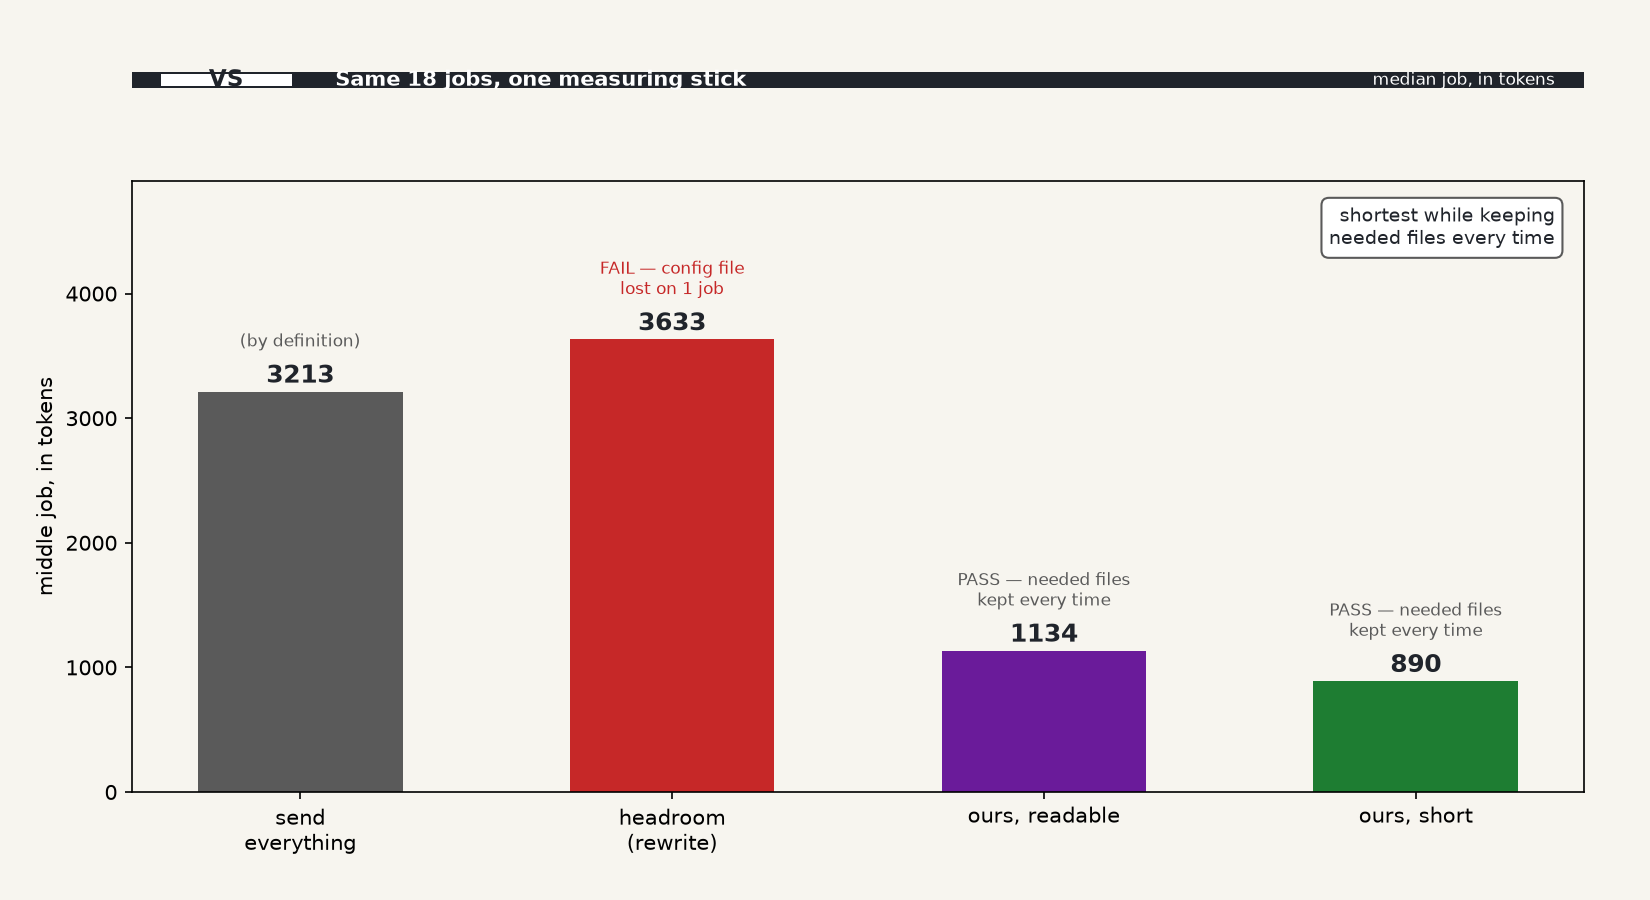
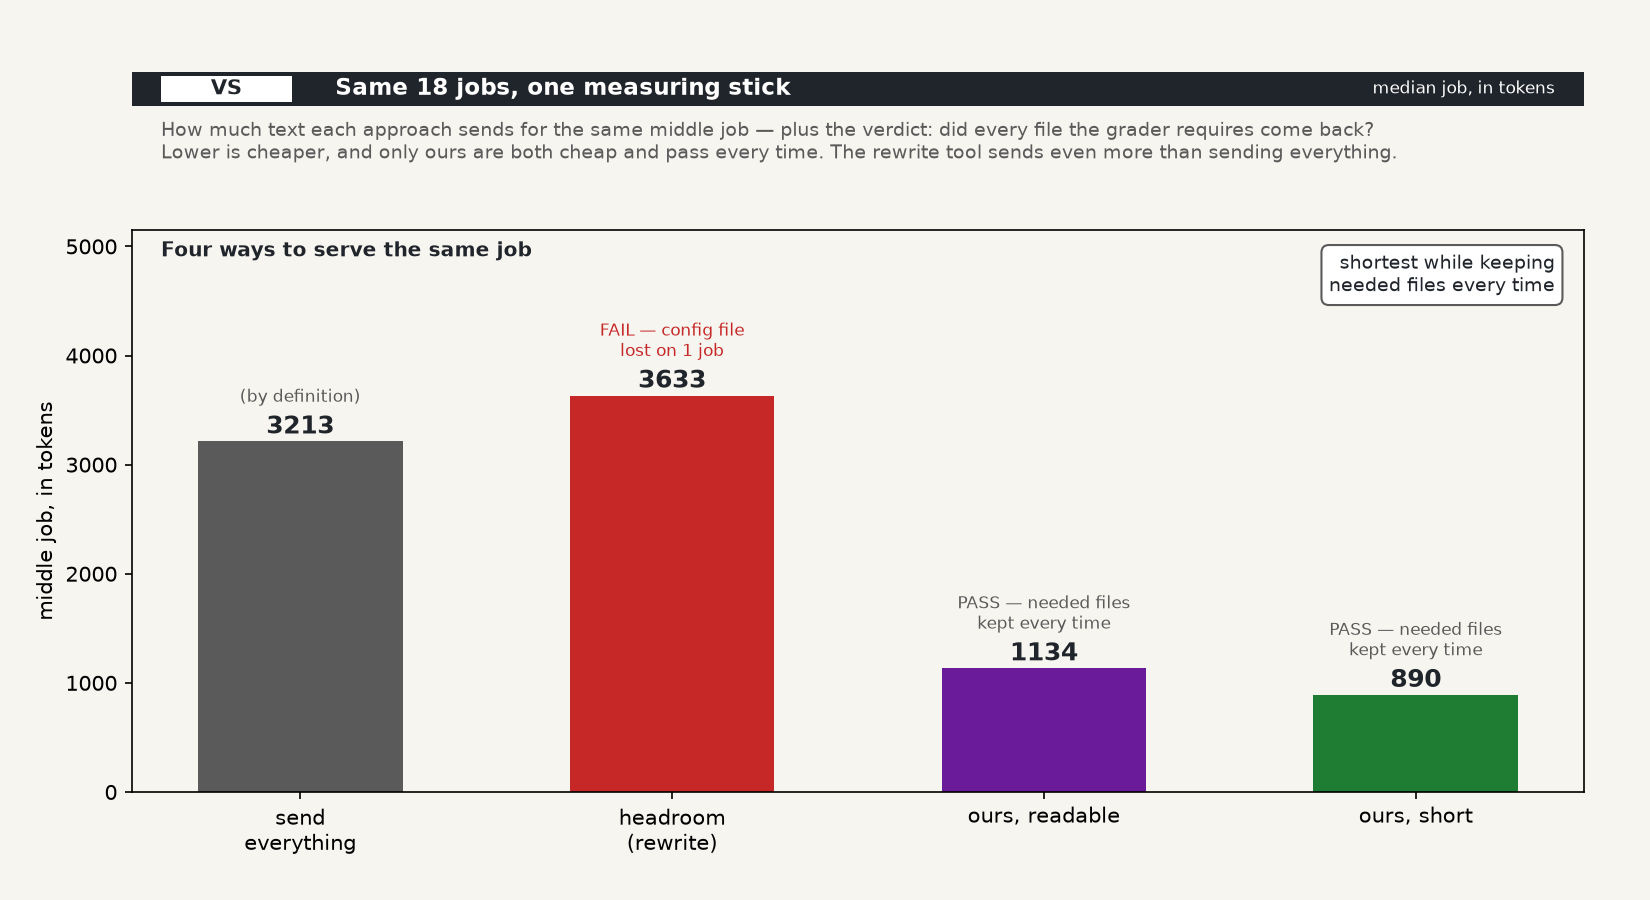
charts: title fully inside its band, two-line brief under it, in-panel titles — no text overlaps

diff --git a/scripts/plot_token_savings.py b/scripts/plot_token_savings.py
@@ -46,7 +46,9 @@ def main():
         groups.append((key, ts))
 
     fig = plt.figure(figsize=(13, 6.6), facecolor=PAPER)
-    gs = fig.add_gridspec(2, 2, height_ratios=[14, 86], hspace=0.06,
+    # Header row is 20 units so the band (24 units tall) fully contains the
+    # title and the two-line brief fits under it without touching anything.
+    gs = fig.add_gridspec(2, 2, height_ratios=[20, 80], hspace=0.06,
                           wspace=0.28, left=0.08, right=0.78, top=0.93,
                           bottom=0.10)
 
@@ -55,21 +57,32 @@ def main():
     axh.set_xlim(0, 100)
     axh.set_ylim(0, 100)
     axh.axis("off")
-    axh.add_patch(Rectangle((0, 82), 100, 18, facecolor=BAND,
+    axh.add_patch(Rectangle((0, 76), 100, 24, facecolor=BAND,
                             edgecolor="none", zorder=1))
-    axh.add_patch(Rectangle((2, 84.5), 9, 13, facecolor="white",
+    axh.add_patch(Rectangle((2, 79), 9, 18, facecolor="white",
                             edgecolor="none", zorder=2))
-    axh.text(6.5, 91, "S", ha="center", va="center", fontsize=11,
+    axh.text(6.5, 88, "S", ha="center", va="center", fontsize=10,
              fontweight="bold", color=BAND, zorder=3)
-    axh.text(14, 91, "Less to read, nothing important lost",
-             ha="left", va="center", fontsize=10, fontweight="bold",
+    axh.text(14, 88, "Less to read, nothing important lost",
+             ha="left", va="center", fontsize=11, fontweight="bold",
              color="white", zorder=3)
-    axh.text(98, 91, "18 jobs measured", ha="right", va="center",
+    axh.text(98, 88, "18 jobs measured", ha="right", va="center",
              fontsize=8, color="white", zorder=3)
+    # Caption: how the two panels relate, in plain words.
+    axh.text(2, 58, "Left: how much less you send per job size — whole "
+                    "codebase (grey) vs only the files the job needs "
+                    "(green), kept every time.",
+             ha="left", va="center", fontsize=9, color=MUTED, zorder=3)
+    axh.text(2, 42, "Right: those same chosen files, written three ways — "
+                    "a shorter wrapping never changes what gets picked.",
+             ha="left", va="center", fontsize=9, color=MUTED, zorder=3)
 
     # Panel A: by job size — whole codebase vs needed parts.
     ax = fig.add_subplot(gs[1, 0])
     ax.set_facecolor(PAPER)
+    ax.text(0.02, 0.98, "Whole codebase vs needed parts, by job size",
+            transform=ax.transAxes, ha="left", va="top", fontsize=9.5,
+            fontweight="bold", color=BAND)
     names, send_all, sent, cuts = [], [], [], []
     for key, ts in groups:
         names.append(f"{PLAIN_NAMES[key]}\n({len(ts)} jobs)")
@@ -86,26 +99,31 @@ def main():
     ax.set_xticklabels(names, fontsize=9)
     ax.set_ylabel("middle job, in tokens", fontsize=9)
     ax.set_xlim(-0.6, len(names) - 0.4)
-    ax.set_ylim(0, max(send_all) * 1.32)
+    # 1.32 leaves room above the tallest bar; the extra 5% keeps the
+    # in-panel title and legend clear of the value labels.
+    ax.set_ylim(0, max(send_all) * 1.386)
     for i, (s, c) in enumerate(zip(sent, cuts)):
         ax.text(i + w / 2, s + max(send_all) * 0.03, f"{s:.0f}\n−{c:.0f}%",
                 ha="center", fontsize=9, fontweight="bold", color=BAND)
-    ax.legend(frameon=False, fontsize=9, loc="upper right")
-    ax.text(0.02, 0.96,
-            "Harder jobs need more sent — but the saving holds,\n"
-            "and the needed files were kept every single time.",
-            transform=ax.transAxes, ha="left", va="top", fontsize=8,
-            color=MUTED)
+    # Sits just under the in-panel title row so the two never touch.
+    ax.legend(frameon=False, fontsize=9, loc="upper right",
+              bbox_to_anchor=(1.0, 0.90))
 
     # Panel B: same answer, three wrappings.
     bx = fig.add_subplot(gs[1, 1])
     bx.set_facecolor(PAPER)
+    bx.text(0.02, 0.98, "The same chosen files, three wrappings",
+            transform=bx.transAxes, ha="left", va="top", fontsize=9.5,
+            fontweight="bold", color=BAND)
     fmts = rep["median_format_tokens"]
     fnames = ["full detail", "readable", "short"]
     fvals = [fmts["json"], fmts["markdown"], fmts["compact"]]
     fbars = bx.barh(fnames, fvals, height=0.5, color=[MUTED, BLUE, ORANGE])
     bx.set_xlabel("middle job, in tokens", fontsize=9)
     bx.set_xlim(0, max(fvals) * 1.6)
+    # Headroom above the tallest bar so the in-panel title never touches it.
+    lo, hi = bx.get_ylim()
+    bx.set_ylim(lo, hi + 0.05 * (hi - lo))
     bx.tick_params(axis="y", labelsize=9)
     base = fvals[0]
     for bar, v in zip(fbars, fvals):
@@ -114,10 +132,6 @@ def main():
         bx.text(v + max(fvals) * 0.02,
                 bar.get_y() + bar.get_height() / 2, label,
                 va="center", fontsize=8.5, color=BAND)
-    bx.text(0.02, 0.96, "Shorter wrapping, same answer —\n"
-                        "it never changes what gets picked.",
-            transform=bx.transAxes, ha="left", va="top", fontsize=8,
-            color=MUTED)
 
     fig.savefig(OUT, dpi=150, facecolor=PAPER)
     print(f"wrote {OUT} ({OUT.stat().st_size // 1024} KiB)")

diff --git a/scripts/plot_same_exercise.py b/scripts/plot_same_exercise.py
@@ -40,7 +40,9 @@ def main():
     fig = plt.figure(figsize=(13, 6.4), facecolor=PAPER)
     # Generous outer margins: y-tick labels live left of the axes and value
     # annotations live right of the bars — both must clear the figure edge.
-    gs = fig.add_gridspec(2, 2, height_ratios=[12, 88], hspace=0.05,
+    # Header row is 20 units so the band (24 units tall) fully contains the
+    # title and the two-line brief fits under it without touching anything.
+    gs = fig.add_gridspec(2, 2, height_ratios=[20, 80], hspace=0.05,
                           wspace=0.30, left=0.20, right=0.74, top=0.93,
                           bottom=0.10)
 
@@ -48,27 +50,39 @@ def main():
     axh.set_xlim(0, 100)
     axh.set_ylim(0, 100)
     axh.axis("off")
-    axh.add_patch(Rectangle((0, 82), 100, 18, facecolor=BAND,
+    axh.add_patch(Rectangle((0, 76), 100, 24, facecolor=BAND,
                             edgecolor="none", zorder=1))
-    axh.add_patch(Rectangle((2, 84.5), 9, 13, facecolor="white",
+    axh.add_patch(Rectangle((2, 79), 9, 18, facecolor="white",
                             edgecolor="none", zorder=2))
-    axh.text(6.5, 91, "C", ha="center", va="center", fontsize=11,
+    axh.text(6.5, 88, "C", ha="center", va="center", fontsize=10,
              fontweight="bold", color=BAND, zorder=3)
-    axh.text(14, 91, "Same 18 jobs, same measuring stick",
-             ha="left", va="center", fontsize=10, fontweight="bold",
+    axh.text(14, 88, "Same 18 jobs, same measuring stick",
+             ha="left", va="center", fontsize=11, fontweight="bold",
              color="white", zorder=3)
-    axh.text(98, 91, "outside tools run here, no accounts",
+    axh.text(98, 88, "outside tools run here, no accounts",
              ha="right", va="center", fontsize=8, color="white", zorder=3)
+    # Caption: how the two panels relate, in plain words.
+    axh.text(2, 58, "Left: how much each tool sends for the same 18 jobs. "
+                    "Right: our pick from the left, written four ways.",
+             ha="left", va="center", fontsize=9, color=MUTED, zorder=3)
+    axh.text(2, 42, "Same files in, same answer out — the wrapping never "
+                    "changes the pick. We kept every needed file 18/18.",
+             ha="left", va="center", fontsize=9, color=MUTED, zorder=3)
 
     # Panel A: selection medians.
     ax = fig.add_subplot(gs[1, 0])
     ax.set_facecolor(PAPER)
+    ax.text(0.02, 0.98, "How much each tool sends", transform=ax.transAxes,
+            ha="left", va="top", fontsize=9.5, fontweight="bold", color=BAND)
     names = ["send everything", "ane-harness", "headroom"]
     vals = [sel["median_baseline"], sel["median_ours"],
             sel["median_headroom"]]
     bars = ax.barh(names, vals, height=0.5, color=[MUTED, GREEN, RED])
     ax.set_xlabel("middle job, in tokens", fontsize=9)
     ax.set_xlim(0, max(vals) * 2.0)  # room for value + gate notes
+    # Headroom above the tallest bar so the in-panel title never touches it.
+    lo, hi = ax.get_ylim()
+    ax.set_ylim(lo, hi + 0.05 * (hi - lo))
     ax.tick_params(axis="y", labelsize=9)
     notes = ["everything, uncut",
              "needed files kept every time",
@@ -83,6 +97,8 @@ def main():
     # Panel B: format medians on the identical pack.
     bx = fig.add_subplot(gs[1, 1])
     bx.set_facecolor(PAPER)
+    bx.text(0.02, 0.98, "Our files, four wrappings", transform=bx.transAxes,
+            ha="left", va="top", fontsize=9.5, fontweight="bold", color=BAND)
     fnames = ["full detail", "readable", "TOON", "short"]
     fvals = [fmt["evidence_json"], fmt["markdown"], fmt["toon_real"],
              fmt["compact_ours"]]
@@ -90,6 +106,8 @@ def main():
                     color=[MUTED, BLUE, "#6a1b9a", ORANGE])
     bx.set_xlabel("middle job, in tokens", fontsize=9)
     bx.set_xlim(0, max(fvals) * 1.6)  # room for "1134 (−16%)"
+    lo, hi = bx.get_ylim()
+    bx.set_ylim(lo, hi + 0.05 * (hi - lo))
     bx.tick_params(axis="y", labelsize=9)
     base = fvals[0]
     for bar, v in zip(fbars, fvals):
@@ -98,9 +116,6 @@ def main():
         bx.text(v + max(fvals) * 0.02,
                 bar.get_y() + bar.get_height() / 2, label,
                 va="center", fontsize=8.5, color=BAND)
-    bx.text(0.02, 0.96, "same answer back out —\nwrapping never changes the pick",
-            transform=bx.transAxes, ha="left", va="top", fontsize=8,
-            color=MUTED)
 
     fig.savefig(OUT, dpi=150, facecolor=PAPER)
     print(f"wrote {OUT} ({OUT.stat().st_size // 1024} KiB)")

diff --git a/scripts/plot_head_to_head.py b/scripts/plot_head_to_head.py
@@ -58,29 +58,45 @@ def main():
              "PASS — needed files\nkept every time"]
 
     fig = plt.figure(figsize=(11, 6.0), facecolor=PAPER)
-    gs = fig.add_gridspec(2, 1, height_ratios=[13, 87], hspace=0.05,
+    # Header row is 20 units so the band (24 units tall) fully contains the
+    # title and the two-line brief fits under it without touching anything.
+    gs = fig.add_gridspec(2, 1, height_ratios=[20, 80], hspace=0.05,
                           left=0.08, right=0.96, top=0.92, bottom=0.12)
     axh = fig.add_subplot(gs[0])
     axh.set_xlim(0, 100)
     axh.set_ylim(0, 100)
     axh.axis("off")
-    axh.add_patch(Rectangle((0, 82), 100, 18, facecolor=BAND,
+    axh.add_patch(Rectangle((0, 76), 100, 24, facecolor=BAND,
                             edgecolor="none", zorder=1))
-    axh.add_patch(Rectangle((2, 84.5), 9, 13, facecolor="white",
+    axh.add_patch(Rectangle((2, 79), 9, 18, facecolor="white",
                             edgecolor="none", zorder=2))
-    axh.text(6.5, 91, "VS", ha="center", va="center", fontsize=11,
+    axh.text(6.5, 88, "VS", ha="center", va="center", fontsize=10,
              fontweight="bold", color=BAND, zorder=3)
-    axh.text(14, 91, "Same 18 jobs, one measuring stick",
-             ha="left", va="center", fontsize=10, fontweight="bold",
+    axh.text(14, 88, "Same 18 jobs, one measuring stick",
+             ha="left", va="center", fontsize=11, fontweight="bold",
              color="white", zorder=3)
-    axh.text(98, 91, "median job, in tokens", ha="right", va="center",
+    axh.text(98, 88, "median job, in tokens", ha="right", va="center",
              fontsize=8, color="white", zorder=3)
+    # Caption: what the bars mean and how the verdict is read.
+    axh.text(2, 58, "How much text each approach sends for the same middle "
+                    "job — plus the verdict: did every file the grader "
+                    "requires come back?",
+             ha="left", va="center", fontsize=9, color=MUTED, zorder=3)
+    axh.text(2, 42, "Lower is cheaper, and only ours are both cheap and "
+                    "pass every time. The rewrite tool sends even more than "
+                    "sending everything.",
+             ha="left", va="center", fontsize=9, color=MUTED, zorder=3)
 
     ax = fig.add_subplot(gs[1])
     ax.set_facecolor(PAPER)
+    ax.text(0.02, 0.98, "Four ways to serve the same job",
+            transform=ax.transAxes, ha="left", va="top", fontsize=9.5,
+            fontweight="bold", color=BAND)
     bars = ax.bar(names, vals, width=0.55, color=colors)
     ax.set_ylabel("middle job, in tokens", fontsize=10)
-    ax.set_ylim(0, max(vals) * 1.35)
+    # 1.35 leaves room for the gate notes above the bars; the extra 5%
+    # keeps the in-panel title clear of the tallest one.
+    ax.set_ylim(0, max(vals) * 1.4175)
     for bar, v, g in zip(bars, vals, gates):
         ax.text(bar.get_x() + bar.get_width() / 2, v + max(vals) * 0.02,
                 f"{v:.0f}", ha="center", fontsize=12, fontweight="bold",
